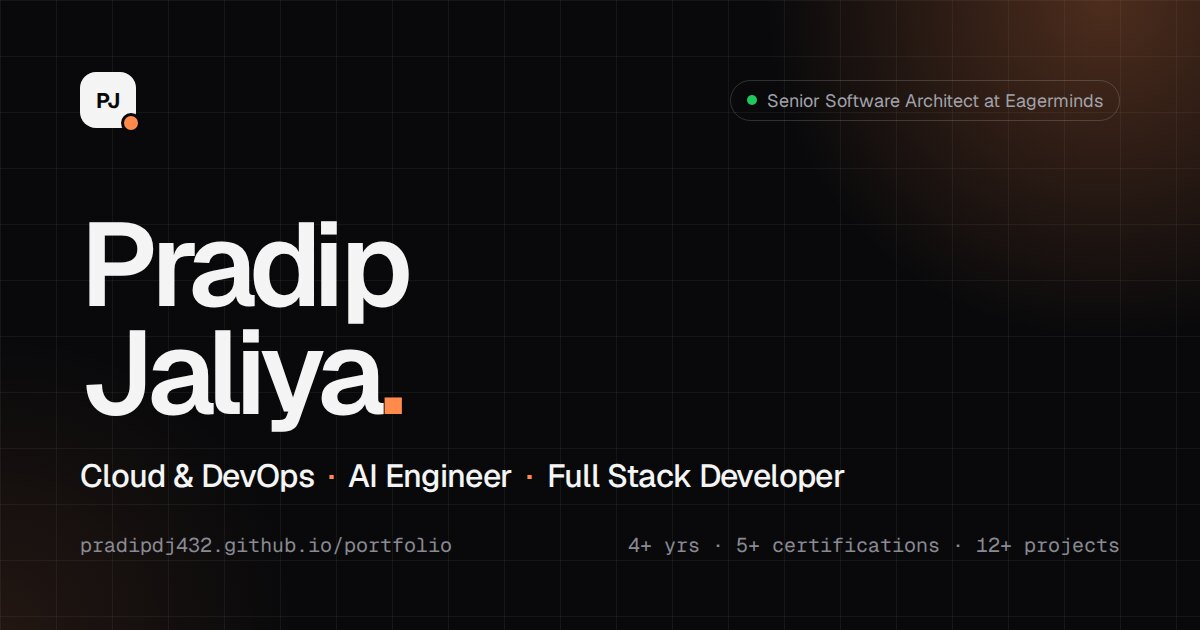
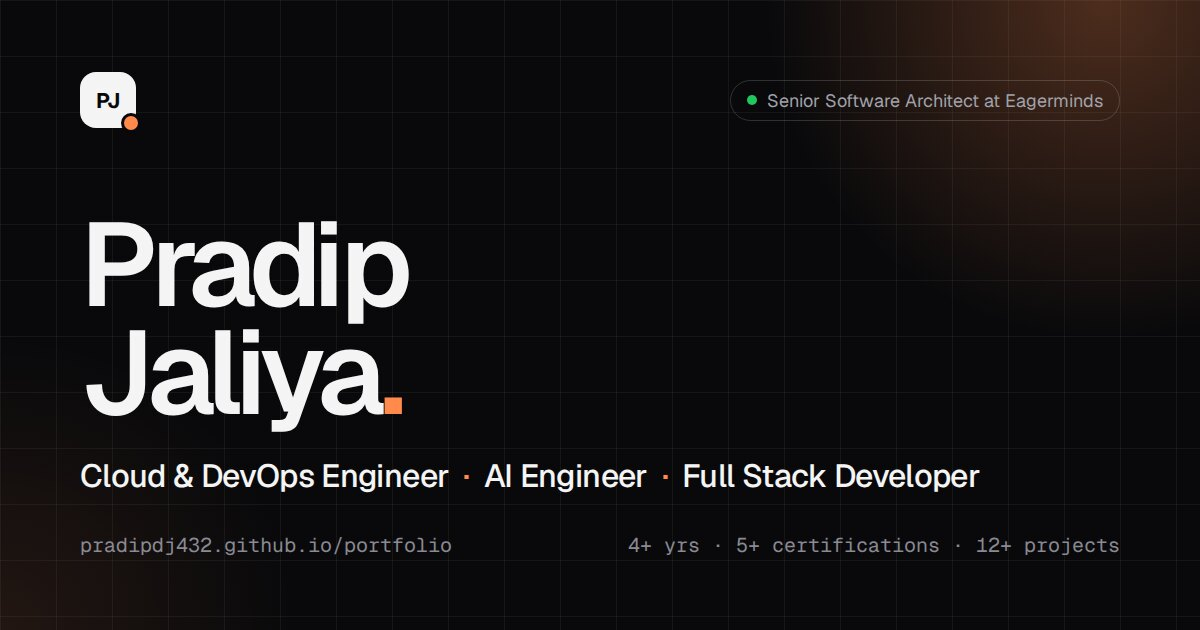
Use the owner's own intro, About and Projects texts, and the new headline
The owner sent their own wording for the intro, the About text (three
paragraphs) and the Projects text, and the headline "Cloud & DevOps
Engineer · AI Engineer · Full Stack Developer". The texts are used word
for word; the first title changes everywhere it's shown as a title,
including the link-preview image (D-016).

Claude-Session: https://claude.ai/code/session_01MGrAgmVdnchySayeeVEdkf

Changed region(s): [[0.2467, 0.7238, 0.8325, 0.7841]]

diff --git a/index.html b/index.html
@@ -3,8 +3,8 @@
 <head>
   <meta charset="utf-8">
   <meta name="viewport" content="width=device-width, initial-scale=1">
-  <title>Pradip Jaliya | Cloud &amp; DevOps · AI Engineer · Full Stack Developer</title>
-  <meta name="description" content="Pradip Jaliya, Senior Software Architect at Eagerminds: Cloud & DevOps, AI Engineer and Full Stack Developer with 4+ years of experience. AWS, GCP, Azure, Terraform, Kubernetes, Angular, React, Node.js, Python, Claude Code and Codex.">
+  <title>Pradip Jaliya | Cloud &amp; DevOps Engineer · AI Engineer · Full Stack Developer</title>
+  <meta name="description" content="Pradip Jaliya, Senior Software Architect at Eagerminds: Cloud & DevOps Engineer, AI Engineer and Full Stack Developer with 4+ years of experience. AWS, GCP, Azure, Terraform, Kubernetes, Angular, React, Node.js, Python, Claude Code and Codex.">
   <link rel="canonical" href="https://pradipdj432.github.io/portfolio/">
   <meta name="theme-color" content="#09090b" media="(prefers-color-scheme: dark)">
   <meta name="theme-color" content="#fbfaf8" media="(prefers-color-scheme: light)">
@@ -12,12 +12,12 @@
   <!-- Link previews (WhatsApp, LinkedIn, X). Uses the live address; change it if the address changes (D-004). -->
   <meta property="og:type" content="website">
   <meta property="og:url" content="https://pradipdj432.github.io/portfolio/">
-  <meta property="og:title" content="Pradip Jaliya | Cloud & DevOps · AI Engineer · Full Stack Developer">
+  <meta property="og:title" content="Pradip Jaliya | Cloud & DevOps Engineer · AI Engineer · Full Stack Developer">
   <meta property="og:description" content="Senior Software Architect at Eagerminds. Cloud & DevOps, AI and full stack development, with 4+ years of experience.">
   <meta property="og:image" content="https://pradipdj432.github.io/portfolio/images/og-image.jpg">
   <meta property="og:image:width" content="1200">
   <meta property="og:image:height" content="630">
-  <meta property="og:image:alt" content="Pradip Jaliya, Cloud & DevOps · AI Engineer · Full Stack Developer">
+  <meta property="og:image:alt" content="Pradip Jaliya, Cloud & DevOps Engineer · AI Engineer · Full Stack Developer">
   <meta name="twitter:card" content="summary_large_image">
 
   <link rel="icon" href="images/favicon.svg" type="image/svg+xml">
@@ -111,9 +111,9 @@
             <span>Jaliya<span class="accent-dot">.</span></span>
           </h1>
           <p class="hero-role reveal">
-            <span>Cloud &amp; DevOps</span><span>AI Engineer</span><span>Full Stack Developer</span>
+            <span>Cloud &amp; DevOps Engineer</span><span>AI Engineer</span><span>Full Stack Developer</span>
           </p>
-          <p class="hero-lede reveal">I build web apps and run them in the cloud, with 4+ years of experience. I work with Angular, React and Node.js, and deploy on AWS, GCP and Azure. I use Claude Code and Codex to improve and deliver faster.</p>
+          <p class="hero-lede reveal">I'm a software engineer focused on cloud-native application development, DevOps, and AI-assisted engineering. I build scalable backend systems, modern web applications, APIs, and cloud infrastructure, working across the full development lifecycle from architecture and implementation to deployment and production. I enjoy solving complex engineering problems and using modern cloud and AI tools to build reliable software faster.</p>
           <div class="button-row reveal">
             <a class="button" href="#contact">Get in touch<svg aria-hidden="true" class="icon icon-shift"><use href="#i-arrow-right"></use></svg></a>
             <a class="button button-ghost" data-resume href="#contact"><svg aria-hidden="true" class="icon"><use href="#i-download"></use></svg>Download resume</a>
@@ -136,7 +136,7 @@
             <p class="ln prompt"><span class="path">~/pradip</span> <span class="caret">❯</span> cat profile.yaml</p>
             <p class="ln"><span class="k">name</span><span class="v s">Pradip Jaliya</span></p>
             <p class="ln"><span class="k">role</span><span class="v s">Senior Software Architect @ Eagerminds</span></p>
-            <p class="ln"><span class="k">focus</span><span class="v">[<b>Cloud &amp; DevOps</b>, <b>AI Engineer</b>, <b>Full Stack</b>]</span></p>
+            <p class="ln"><span class="k">focus</span><span class="v">[<b>Cloud &amp; DevOps Engineer</b>, <b>AI Engineer</b>, <b>Full Stack Developer</b>]</span></p>
             <p class="ln"><span class="k">cloud</span><span class="v">[<b>AWS</b>, <b>GCP</b>, <b>Azure</b>]</span></p>
             <p class="ln"><span class="k">devops</span><span class="v">[<b>Terraform</b>, <b>Docker</b>, <b>Kubernetes</b>, <b>CI/CD</b>]</span></p>
             <p class="ln"><span class="k">stack</span><span class="v">[<b>Angular</b>, <b>React</b>, <b>Node.js</b>, <b>NestJS</b>]</span></p>
@@ -170,13 +170,15 @@
         <header class="section-head reveal">
           <p class="eyebrow"><span>01</span>About</p>
           <h2 id="about-title">From code to cloud, <em>end to end.</em></h2>
-          <p class="section-lede">I build full stack apps from start to finish: the front end with Angular and React, REST APIs with Node.js and ASP.NET, and databases with MS SQL and MySQL. Then I set up the infrastructure and CI/CD, and deploy and run the apps on AWS, GCP and Azure. Today I'm a Senior Software Architect at Eagerminds, after Dhitech Solutions and Optimum Financial Solutions.</p>
+          <p class="section-lede">My technical experience covers the full application and cloud stack. I work with Node.js, NestJS, Express.js, ASP.NET, Angular, React, and TypeScript to build APIs and web applications, along with MySQL, MS SQL, and DynamoDB for data-driven systems.</p>
+          <p class="section-lede">I have hands-on experience across AWS, GCP, and Azure, including cloud infrastructure, serverless applications, containers, CI/CD, and infrastructure as code with Terraform. I also work with Docker, Kubernetes, Lambda, ECS, and Step Functions, and use AI development tools such as Claude Code and Codex to accelerate coding, debugging, and delivery.</p>
+          <p class="section-lede">I currently work as a Senior Software Architect at Eagerminds. Before that, I worked at Dhitech Solutions and Optimum Financial Solutions, where I gained experience building and supporting software across different products and technical environments.</p>
         </header>
 
         <div class="cards-3">
           <article class="card spotlight reveal">
             <span class="card-icon"><svg aria-hidden="true" class="icon"><use href="#i-cloud"></use></svg></span>
-            <h3>Cloud &amp; DevOps</h3>
+            <h3>Cloud &amp; DevOps Engineer</h3>
             <p>I deploy and run apps on AWS, GCP and Azure: infrastructure as code with Terraform, CI/CD pipelines, Docker and Kubernetes, and serverless workflows with Lambda and Step Functions. Certified on AWS, Azure and Google Cloud, including Google Professional Cloud Architect.</p>
             <ul class="tags"><li>AWS</li><li>GCP</li><li>Azure</li><li>Terraform</li><li>Docker</li><li>Kubernetes</li></ul>
           </article>
@@ -310,7 +312,7 @@
         <header class="section-head reveal">
           <p class="eyebrow"><span>03</span>Projects</p>
           <h2 id="projects-title">Selected <em>work.</em></h2>
-          <p class="section-lede">Two live websites for real businesses, two full stack apps and one machine learning model.</p>
+          <p class="section-lede">Built and delivered production websites for real businesses, along with full stack applications and a machine learning solution&nbsp;— covering everything from frontend and backend development to deployment and practical AI/ML implementation.</p>
         </header>
 
         <div class="featured">

diff --git a/js/config.js b/js/config.js
@@ -3,7 +3,7 @@
 
 const PROFILE = {
   name: "Pradip Jaliya",
-  headline: "Cloud & DevOps · AI Engineer · Full Stack Developer",
+  headline: "Cloud & DevOps Engineer · AI Engineer · Full Stack Developer",
   jobTitle: "Senior Software Architect",
   company: "Eagerminds",
 

diff --git a/decisions.md b/decisions.md
@@ -19,9 +19,10 @@ A log of choices made for the portfolio website and why. Add new decisions at th
 | D-010 | Headline: "Claude & DevOps · AI Engineer · Full Stack Developer" | Replaced by D-013 |
 | D-011 | Three companies on the site, and the owner's numbers in the intro | Accepted (Credly placement changed by D-012; its open facts answered later) |
 | D-012 | Plain "resume" spelling, and Credly only with the contact links | Accepted |
-| D-013 | Headline: "Cloud & DevOps · AI Engineer · Full Stack Developer"; Claude Code and Codex go with AI | Accepted (intro wording replaced by D-015) |
+| D-013 | Headline: "Cloud & DevOps · AI Engineer · Full Stack Developer"; Claude Code and Codex go with AI | Replaced by D-016 |
 | D-014 | After a merge, the notes update rides along with the next pull request | Proposed |
-| D-015 | Intro and About texts cover cloud and full stack only; Python and machine learning stay in the AI card, Skills and projects | Accepted |
+| D-015 | Intro and About texts cover cloud and full stack only; Python and machine learning stay in the AI card, Skills and projects | Accepted (wording replaced by D-016) |
+| D-016 | Headline "Cloud & DevOps Engineer · AI Engineer · Full Stack Developer", and the owner's own intro, About and Projects texts | Accepted |
 
 When you add a decision, add a row here too.
 
@@ -125,7 +126,7 @@ When you add a decision, add a row here too.
 
 ## D-013 — Headline: "Cloud & DevOps · AI Engineer · Full Stack Developer"; Claude Code and Codex go with AI
 - **Date:** 2026-10-04
-- **Status:** Accepted
+- **Status:** Replaced by D-016
 - **Context:** The owner asked to move Claude Code and Codex out of the first About card into the AI card. That left the "Claude & DevOps" card talking only about AWS, GCP, Azure, Terraform and Kubernetes. Asked whether the first title meant "Cloud" or "Claude", the owner chose "Cloud & DevOps", which matches the resume's "Cloud & DevOps" skill group. The owner also asked that every place on the site say the same thing.
 - **Decision:** Headline "Cloud & DevOps · AI Engineer · Full Stack Developer" everywhere: page title, link preview tags and image, intro, profile card, About card and `js/config.js`. Claude Code and Codex move to the AI Engineer card and to the "AI & ML" skills group. The intro is rewritten to follow the three titles in order. The line "I use Claude Code and Codex to improve and deliver faster" is word-for-word the same wherever it appears. Other changes from the same request: links for Dhitech Solutions (dhitech.solutions), Optimum Financial Solutions (optimumfintech.com) and JM Financial Mutual Fund (jmfinancialmf.com); Dhitech dates "Jul 2024 – Mar 2026"; the name in the intro a little smaller; the "Built with…" line removed from the footer. Replaces D-010.
 - **Alternatives considered:** Keep "Claude & DevOps" with a cloud-only card; four separate titles.
@@ -141,8 +142,16 @@ When you add a decision, add a row here too.
 
 ## D-015 — Intro and About texts cover cloud and full stack only; Python and machine learning stay in the AI card, Skills and projects
 - **Date:** 2026-10-04
-- **Status:** Accepted
+- **Status:** Accepted (wording replaced by D-016)
 - **Context:** The owner found the intro, About and Projects texts unclear: they mixed cloud, AI, Python and full stack in long sentences. The owner asked to take Python and the things around it out, keep cloud and full stack, and make the texts clear. Asked where Python should go, the owner chose "only these 3 texts", and approved the new wording.
 - **Decision:** The intro says what the owner does in short, separate sentences: builds web apps and runs them in the cloud (4+ years), works with Angular, React and Node.js, deploys on AWS, GCP and Azure, and the Claude Code and Codex line. The About text goes step by step through a full stack app (front end, APIs, databases), then infrastructure, CI/CD and the cloud, then the three companies; the "problem-solving" and "eager to learn" words are dropped. The Projects text counts what's shown: two live business websites, two full stack apps and one machine learning model. Aara Culture's label becomes "Business website · Live", the same as DK ENGINEER'S. Python, machine learning and Kaggle stay in the AI Engineer card, the Skills section, the tech strip and the Bulldozer project. Replaces D-013's "the intro follows the three titles in order".
 - **Alternatives considered:** Remove Python and machine learning from the whole site, including the Bulldozer project.
 - **Consequences:** The headline above the intro still names all three titles; the AI title is covered by the AI Engineer card, the Claude Code and Codex line and the GenAI Leader certificate. The new texts are in `profile.md` → "Wording on the site".
+
+## D-016 — Headline "Cloud & DevOps Engineer · AI Engineer · Full Stack Developer", and the owner's own intro, About and Projects texts
+- **Date:** 2026-10-05
+- **Status:** Accepted
+- **Context:** The owner sent their own wording for the intro, the About text and the Projects text, and a new headline with "Engineer" after "Cloud & DevOps".
+- **Decision:** Headline "Cloud & DevOps Engineer · AI Engineer · Full Stack Developer" everywhere it's shown as titles: page title, link-preview tags and image, intro, profile card, the first About card and `js/config.js`. The Skills group keeps the name "Cloud & DevOps", because it's a group of skills, not a title. The intro, the About text (now three paragraphs: the application stack, the cloud and AI tools, then the three companies) and the Projects text use the owner's words exactly. Claude Code and Codex stay with AI in the About cards and Skills; the About text names them in the owner's own words ("to accelerate coding, debugging, and delivery"), which means the same as the AI card's "to improve and deliver faster". Python and machine learning still stay out of the intro and About texts (D-015). Replaces D-013 and the wording in D-015.
+- **Alternatives considered:** Keep "Cloud & DevOps" without "Engineer"; keep the shorter texts from D-015.
+- **Consequences:** The intro no longer says "4+ years"; the number stays in the stats row and the link preview. The new texts are in `profile.md` → "Wording on the site".

diff --git a/profile.md b/profile.md
@@ -14,7 +14,7 @@ Where these disagree, the owner's latest answer wins, then the older CV for work
 | | |
 |---|---|
 | **Name on the website** | **Pradip Jaliya**, everywhere (owner, 2026-10-04; D-009). Full name on the resume: Pradipkumar Jaliya |
-| **Headline** | Cloud & DevOps · AI Engineer · Full Stack Developer (owner, 2026-10-04; "Cloud", the cloud, not "Claude"; DevOps and AI kept apart; D-013) |
+| **Headline** | Cloud & DevOps Engineer · AI Engineer · Full Stack Developer (owner, 2026-10-05; "Cloud", the cloud, not "Claude"; DevOps and AI kept apart; D-016) |
 | **Experience** | 4+ years (owner). Work started March 2023 |
 | **Current job** | Senior Software Architect at Eagerminds (https://www.eagerminds.in/), since April 2026 (owner) |
 | **Companies** | 3: Optimum Financial Solutions → Dhitech Solutions → Eagerminds |
@@ -172,13 +172,15 @@ The main lines as the site writes them, built from the facts above. The owner re
 |---|---|
 | Intro badge | Senior Software Architect at Eagerminds |
 | Name | Pradip Jaliya |
-| Titles | Cloud & DevOps · AI Engineer · Full Stack Developer |
-| Intro | I build web apps and run them in the cloud, with 4+ years of experience. I work with Angular, React and Node.js, and deploy on AWS, GCP and Azure. I use Claude Code and Codex to improve and deliver faster. |
-| About | I build full stack apps from start to finish: the front end with Angular and React, REST APIs with Node.js and ASP.NET, and databases with MS SQL and MySQL. Then I set up the infrastructure and CI/CD, and deploy and run the apps on AWS, GCP and Azure. Today I'm a Senior Software Architect at Eagerminds, after Dhitech Solutions and Optimum Financial Solutions. |
-| Card: Cloud & DevOps | I deploy and run apps on AWS, GCP and Azure: infrastructure as code with Terraform, CI/CD pipelines, Docker and Kubernetes, and serverless workflows with Lambda and Step Functions. Certified on AWS, Azure and Google Cloud, including Google Professional Cloud Architect. |
+| Titles | Cloud & DevOps Engineer · AI Engineer · Full Stack Developer |
+| Intro | I'm a software engineer focused on cloud-native application development, DevOps, and AI-assisted engineering. I build scalable backend systems, modern web applications, APIs, and cloud infrastructure, working across the full development lifecycle from architecture and implementation to deployment and production. I enjoy solving complex engineering problems and using modern cloud and AI tools to build reliable software faster. |
+| About, paragraph 1 | My technical experience covers the full application and cloud stack. I work with Node.js, NestJS, Express.js, ASP.NET, Angular, React, and TypeScript to build APIs and web applications, along with MySQL, MS SQL, and DynamoDB for data-driven systems. |
+| About, paragraph 2 | I have hands-on experience across AWS, GCP, and Azure, including cloud infrastructure, serverless applications, containers, CI/CD, and infrastructure as code with Terraform. I also work with Docker, Kubernetes, Lambda, ECS, and Step Functions, and use AI development tools such as Claude Code and Codex to accelerate coding, debugging, and delivery. |
+| About, paragraph 3 | I currently work as a Senior Software Architect at Eagerminds. Before that, I worked at Dhitech Solutions and Optimum Financial Solutions, where I gained experience building and supporting software across different products and technical environments. |
+| Card: Cloud & DevOps Engineer | I deploy and run apps on AWS, GCP and Azure: infrastructure as code with Terraform, CI/CD pipelines, Docker and Kubernetes, and serverless workflows with Lambda and Step Functions. Certified on AWS, Azure and Google Cloud, including Google Professional Cloud Architect. |
 | Card: AI Engineer | I use Claude Code and Codex to improve and deliver faster. In Python I work on machine learning and GenAI with NumPy, Pandas, Scikit-learn and LLMs, and build models from Kaggle datasets. Google-certified Generative AI Leader. |
 | Card: Full Stack Developer | I build scalable single-page apps with Angular and React, and REST APIs and microservices with Node.js, NestJS and ASP.NET, on MySQL, MS SQL and DynamoDB. |
 | Experience intro | Three companies, across Swiss fintech, call tracking, gift cards, marketing analytics and mutual funds. |
-| Projects intro | Two live websites for real businesses, two full stack apps and one machine learning model. |
+| Projects intro | Built and delivered production websites for real businesses, along with full stack applications and a machine learning solution — covering everything from frontend and backend development to deployment and practical AI/ML implementation. |
 | Numbers | 4+ years of experience · 5+ cloud & AI certifications · 12+ projects built · 800+ LeetCode problems solved |
-| Link preview | "Pradip Jaliya. Cloud & DevOps · AI Engineer · Full Stack Developer", badge "Senior Software Architect at Eagerminds", "4+ yrs · 5+ certifications · 12+ projects" |
+| Link preview | "Pradip Jaliya. Cloud & DevOps Engineer · AI Engineer · Full Stack Developer", badge "Senior Software Architect at Eagerminds", "4+ yrs · 5+ certifications · 12+ projects" |

diff --git a/progress.md b/progress.md
@@ -7,15 +7,15 @@ Where the project stands right now, and a dated log of what was done. Update thi
 |---|---|
 | **Phase** | Live. Six pull requests merged (#1–#6): the owner's rounds of changes are on the site, and every doc matches it. |
 | **Live site** | https://pradipdj432.github.io/portfolio/ GitHub Pages publishes every merge to `main` (Actions → "pages build and deployment"). Every deploy so far has succeeded, the latest for PR #6 (`3f57fb2`). |
-| **Branches** | `working` matches `main`, plus these merge notes for PR #6, which go into `main` with the next pull request (D-014). All new work starts on `working` (D-002). |
+| **Branches** | `working` is ahead of `main` with PR #7 (the owner's own texts and the new headline), which also carries the merge notes for PR #6 (D-014). All new work starts on `working` (D-002). |
 | **Blocked on** | Nothing. A few small checks are waiting on the owner ("4+ years", HFSS tech, an updated resume). |
-| **Next step** | Owner: check the live site on a phone and answer the small checks. Full list in `backlog.md` → "Next up". |
+| **Next step** | Owner: say "merge" for PR #7, check the live site on a phone and answer the small checks. Full list in `backlog.md` → "Next up". |
 
 ## Where we are
 What's on the live site today:
 - **Page:** one page with intro, about, experience, projects, skills, credentials and contact, plus a "page not found" page. Dark by default with a light theme and a switch button. "Download resume" buttons, link previews for WhatsApp and LinkedIn, and Google search data (D-006, D-007).
-- **Intro and About:** short, clear texts about building web apps and running them in the cloud; Python and machine learning are in the AI Engineer card, Skills and the Bulldozer project only (D-015).
-- **Name and titles:** "Pradip Jaliya", "Cloud & DevOps · AI Engineer · Full Stack Developer", badge "Senior Software Architect at Eagerminds" (D-009, D-013).
+- **Intro and About:** short, clear texts about building web apps and running them in the cloud; Python and machine learning are in the AI Engineer card, Skills and the Bulldozer project only (D-015). PR #7 swaps in the owner's own texts (D-016).
+- **Name and titles:** "Pradip Jaliya", "Cloud & DevOps · AI Engineer · Full Stack Developer", badge "Senior Software Architect at Eagerminds" (D-009, D-013). PR #7 changes the first title to "Cloud & DevOps Engineer" (D-016).
 - **Experience:** Senior Software Architect at Eagerminds (since April 2026: HFSS, Helvetia Financial Services); Senior Software Engineer at Dhitech Solutions (July 2024 – March 2026: gift card system, Call Clutch, Drive PG, each with its live link); Junior Software Developer and Intern at Optimum Financial Solutions (March 2023 – June 2024: JM Financial Mutual Fund) (D-011).
 - **Projects:** DK-Engineer and Aara Culture (live, with screenshots), then Parking Management System, Bulldozer Price Prediction and Cricket Score Management System (D-008).
 - **Numbers:** 4+ years, 5+ certifications, 12+ projects, 800+ LeetCode problems (the owner's).
@@ -34,6 +34,7 @@ What's on the live site today:
 | #4 | Third round: headline "Cloud & DevOps", Claude Code and Codex with AI, company links, Dhitech dates, consistency pass (D-013) | 2026-10-04 |
 | #5 | Every `.md` file brought in sync with the site and code (D-014) | 2026-10-04 |
 | #6 | Clearer intro, About and Projects texts, about cloud and full stack only (D-015) | 2026-10-04 |
+| #7 | The owner's own intro, About and Projects texts; headline "Cloud & DevOps Engineer" (D-016) | Open |
 
 ## Log
 
@@ -89,3 +90,13 @@ What's on the live site today:
 - Updated `profile.md` → "Wording on the site" (checked word for word against the page) and the Aara Culture type.
 - Tested at 390px and 1280px in dark and light: no script errors, no failed requests, no sideways scrolling.
 - Opened [PR #6](https://github.com/PradipDj432/portfolio/pull/6). The owner said "merge". **PR #6 merged** (`3f57fb2`); the deploy succeeded.
+
+### 2026-10-05
+
+#### PR #7 (the owner's own texts and the new headline)
+- The owner sent their own wording for the intro, the About text (three paragraphs) and the Projects text, and the headline "Cloud & DevOps Engineer · AI Engineer · Full Stack Developer" (D-016).
+- Put the texts in word for word. Changed the first title everywhere it's shown as a title: page title, link-preview tags, intro, profile card, the first About card, `js/config.js`, and the link-preview image (made again). The Skills group keeps the name "Cloud & DevOps".
+- Kept the "—" in the Projects text on the same line as the word before it, so it doesn't start a line on phones.
+- Updated `profile.md` (headline and "Wording on the site", checked word for word against the page), `CLAUDE.md` and `README.md`.
+- Tested at 390px and 1280px in dark and light: no script errors, no failed requests, no sideways scrolling; the longer title and profile card wrap cleanly on phones.
+- Opened PR #7; waiting for the owner's OK to merge.

diff --git a/backlog.md b/backlog.md
@@ -8,9 +8,10 @@ Everything still to do, newest ideas at the bottom of each section. When work st
 ## Next up
 The few things to do next, in order. Keep this list short and current.
 
-1. **Owner:** open the live site on your phone and share the link on WhatsApp once to check the preview.
-2. **Owner:** confirm "4+ years" (your work on the site starts March 2023), and the tech you used for HFSS, if you want it shown.
-3. **Owner:** send an updated resume; the one visitors download still says 3 years and doesn't list Eagerminds or Optimum.
+1. **Owner:** say "merge" for PR #7 (your own texts and the new headline).
+2. **Owner:** open the live site on your phone and share the link on WhatsApp once to check the preview.
+3. **Owner:** confirm "4+ years" (your work on the site starts March 2023), and the tech you used for HFSS, if you want it shown.
+4. **Owner:** send an updated resume; the one visitors download still says 3 years and doesn't list Eagerminds or Optimum.
 
 ## Waiting on the owner
 - [ ] **P1 · Owner** Check the live site on a real phone (menu, light/dark button, resume download, contact links) and the WhatsApp link preview.
@@ -87,3 +88,7 @@ Grouped by pull request, oldest first. Where a later change replaced something, 
 - [x] **P1 · Owner** Python and machine learning out of the intro, About and Projects texts only; they stay in the AI card, Skills and the Bulldozer project. New wording approved (D-015). PR #6.
 - [x] **P1 · Dev** Intro, About and Projects texts rewritten to be short and clear; Aara Culture labelled "Business website · Live" like DK ENGINEER'S; `profile.md` wording updated (D-015). PR #6.
 - [x] **P1 · Owner** Merge PR #6: yes, merged and live.
+
+### PR #7 (the owner's own texts and the new headline)
+- [x] **P1 · Owner** Own wording for the intro, About and Projects texts, and the headline "Cloud & DevOps Engineer · AI Engineer · Full Stack Developer" (D-016). PR #7.
+- [x] **P1 · Dev** Texts put in word for word; first title changed everywhere, including the link-preview image; `profile.md`, `CLAUDE.md` and `README.md` updated (D-016). PR #7.

diff --git a/CLAUDE.md b/CLAUDE.md
@@ -34,7 +34,7 @@ Never commit straight to `main`, and don't create other branches unless the owne
 
 ## Facts about the owner
 - Never invent facts: name, job title, employer, dates, years of experience, skills, education, certificates, project results or numbers, client names. If a fact isn't confirmed in `profile.md`, ask the owner and list it in `backlog.md` under "Waiting on the owner".
-- The name on the site is **Pradip Jaliya** everywhere (D-009), and the headline is **Cloud & DevOps · AI Engineer · Full Stack Developer** (D-013). Keep DevOps and AI as separate titles; Claude Code and Codex belong with AI, not with cloud.
+- The name on the site is **Pradip Jaliya** everywhere (D-009), and the headline is **Cloud & DevOps Engineer · AI Engineer · Full Stack Developer** (D-016). Keep DevOps and AI as separate titles; in the About cards and Skills, Claude Code and Codex go with AI, not with cloud.
 - Say each fact the same way everywhere: if the intro, a card, the profile card, the stats, the link preview and `profile.md` all mention it, they must agree in meaning (the same numbers, titles, dates and wording). After any text change, read the whole page top to bottom and fix anything that disagrees.
 - The facts in `profile.md` come from the resume, `resume/Pradip-Jaliya-Resume.pdf` (D-005), the older CV in `resume/archive/` for work history, and the owner's own answers (D-011); `profile.md` → "Sources" says which wins. Visitors download only the main resume. When the owner sends a new resume, move the old PDF into `resume/archive/` (never delete it), save the new one under the same name, and update `resume/README.md`, `profile.md` and the website together (steps in `resume/README.md`). Don't edit the PDF itself.
 - Show only the projects in `profile.md` (the resume's, plus any the owner adds). Describe a project from the resume, its repo and the owner's own words; don't claim features its code doesn't have.

diff --git a/README.md b/README.md
@@ -1,6 +1,6 @@
 # Portfolio — Website
 
-The personal portfolio website of **Pradip Jaliya** ([PradipDj432](https://github.com/PradipDj432) on GitHub): Cloud & DevOps · AI Engineer · Full Stack Developer. It introduces the owner, shows their work, projects, skills and certificates, offers the resume as a download, and makes it easy to get in touch.
+The personal portfolio website of **Pradip Jaliya** ([PradipDj432](https://github.com/PradipDj432) on GitHub): Cloud & DevOps Engineer · AI Engineer · Full Stack Developer. It introduces the owner, shows their work, projects, skills and certificates, offers the resume as a download, and makes it easy to get in touch.
 
 **Live:** https://pradipdj432.github.io/portfolio/ · Where the project stands: `progress.md`. What's next: `backlog.md` → "Next up".
 
